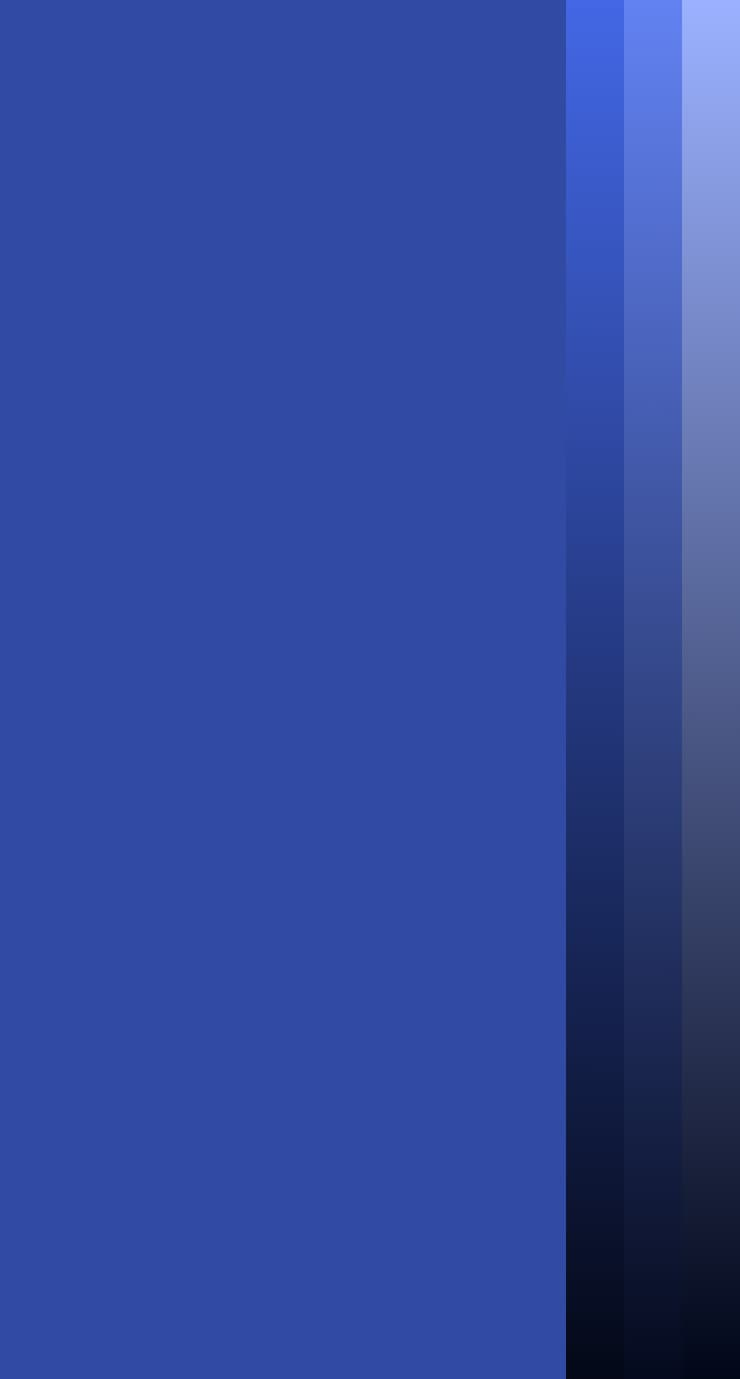
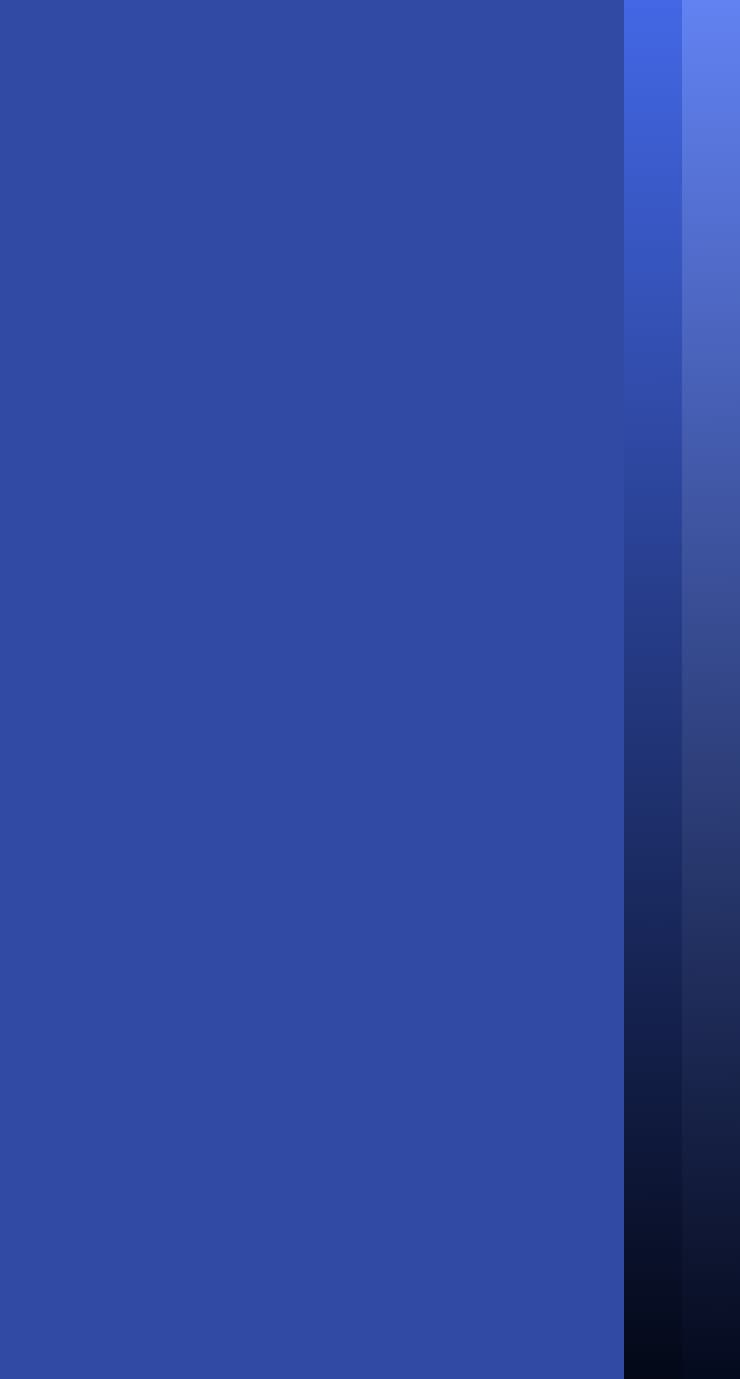
Ajuste de imagens
Ajuste de imagens de fundo e de margem em telas menores

Changed region(s): [[0.7459, 0.0, 1.0, 0.5613], [0.7459, 0.4365, 0.8703, 1.0]]

diff --git a/src/App.css b/src/App.css
@@ -163,7 +163,7 @@ svg {
 
 @media (max-width: 740px) {
   :root {
-    --margin: 90%;
+    --margin: 80%;
     --container-data: 100px;
     font-size: 1rem;
     --contato-svg: 30px;
